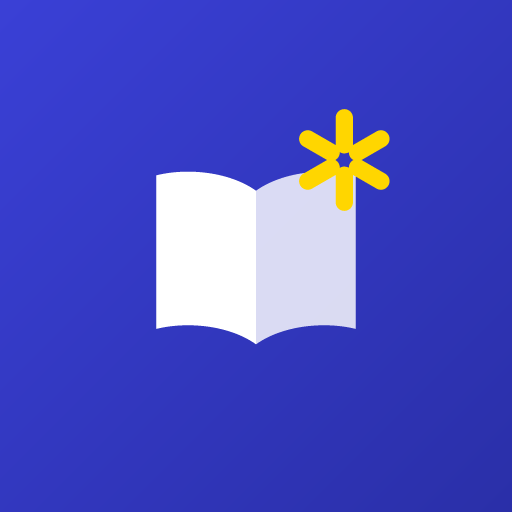
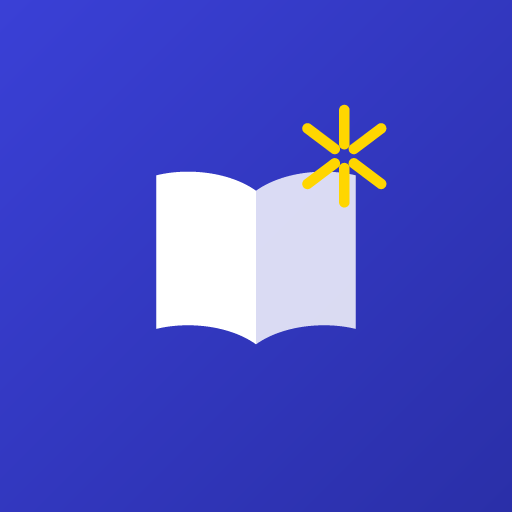
design(로고): 광선을 유스보이스 로고 비율에 맞춰 얇게
로고를 픽셀 단위로 재니 선 굵기가 마크 지름의 약 8% 였는데 내 것은 20%
였다. 각도도 ±30° 가 아니라 실측 ±36~39° 이고, 가운데 구멍도 더 작았다.

굵기 11%(R24·w5.5), 각도 ±37°, 구멍 0.26 으로 맞췄다.
8% 그대로 가면 32px 파비콘에서 눈에 띄게 흐려져 조금만 두껍게 했다.

Changed region(s): [[0.5625, 0.1875, 0.7812, 0.4375]]

diff --git a/make-icons.py b/make-icons.py
@@ -62,11 +62,17 @@ def seg_dist(px_, py, x1, y1, x2, y2):
         ((px_ - x1) * dx + (py - y1) * dy) / (dx * dx + dy * dy)))
     return math.hypot(px_ - (x1 + t * dx), py - (y1 + t * dy))
 
-def spark(cx, cy, R, w, inner_ratio=0.36):
+# 유스보이스 로고를 픽셀 단위로 재서 맞춘 값.
+# 선 굵기는 마크 지름의 약 8% 인데, 그대로 쓰면 32px 파비콘에서 흐려진다.
+# 11% 로 조금만 두껍게 해 눈에 띄게 얇으면서 작은 크기에서도 버티게 했다
+SPARK_ANGLE = 37      # 대각선 각도 (로고 실측 ±36~39)
+SPARK_INNER = 0.26    # 가운데 빈 구멍 / 바깥 반지름
+
+def spark(cx, cy, R, w, inner_ratio=SPARK_INNER, ang=SPARK_ANGLE):
     """유스보이스 마크 — 가운데가 빈 6갈래. 세로 2 + 대각선 4"""
     inner = R * inner_ratio
     segs = []
-    for a in (-90, 90, -150, -30, 150, 30):
+    for a in (-90, 90, -180 + ang, -ang, 180 - ang, ang):
         r = math.radians(a)
         segs.append((cx + math.cos(r)*inner, cy + math.sin(r)*inner,
                      cx + math.cos(r)*R,     cy + math.sin(r)*R))
@@ -147,7 +153,7 @@ def write_png(path, size, px_):
     print(f'  {path}  {size}×{size}')
 
 # ── 한끗독서 ────────────────────────────────────────────
-BOOK   = lambda: [poly(BOOK_L), poly(BOOK_R, alpha=0.82), spark(142, 46, 22, 9)]
+BOOK   = lambda: [poly(BOOK_L), poly(BOOK_R, alpha=0.82), spark(142, 44, 24, 5.5)]
 BLUE   = ((0x3A, 0x40, 0xD6), (0x2A, 0x2F, 0xA8))
 PINK   = ((0xFF, 0x3D, 0x7F), (0xE0, 0x00, 0x5C))
 
